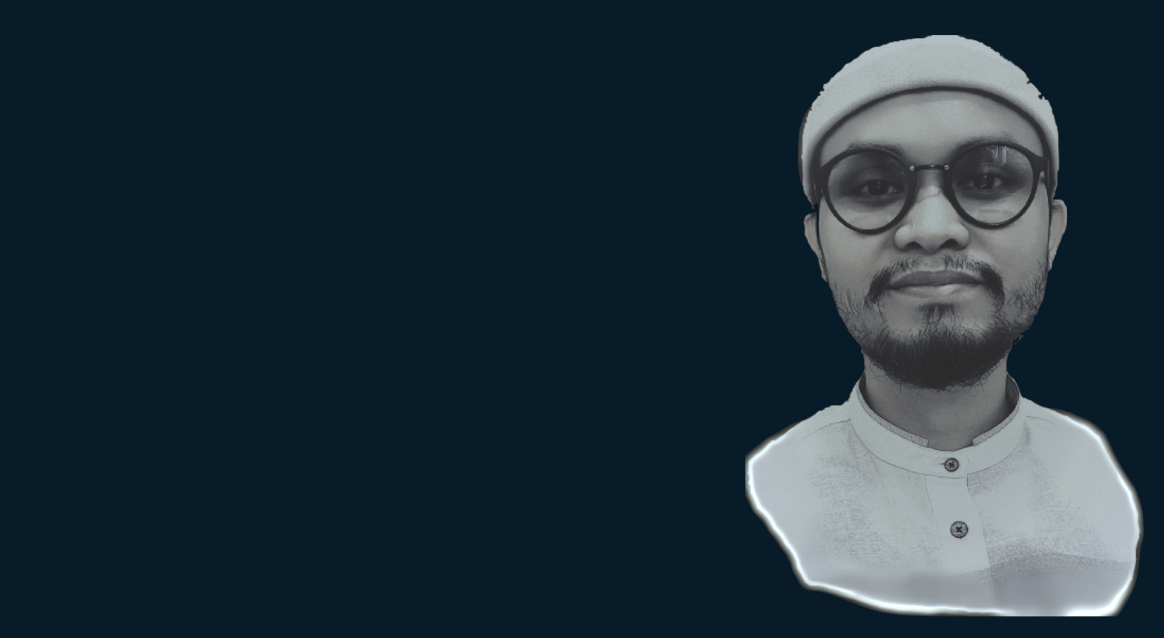
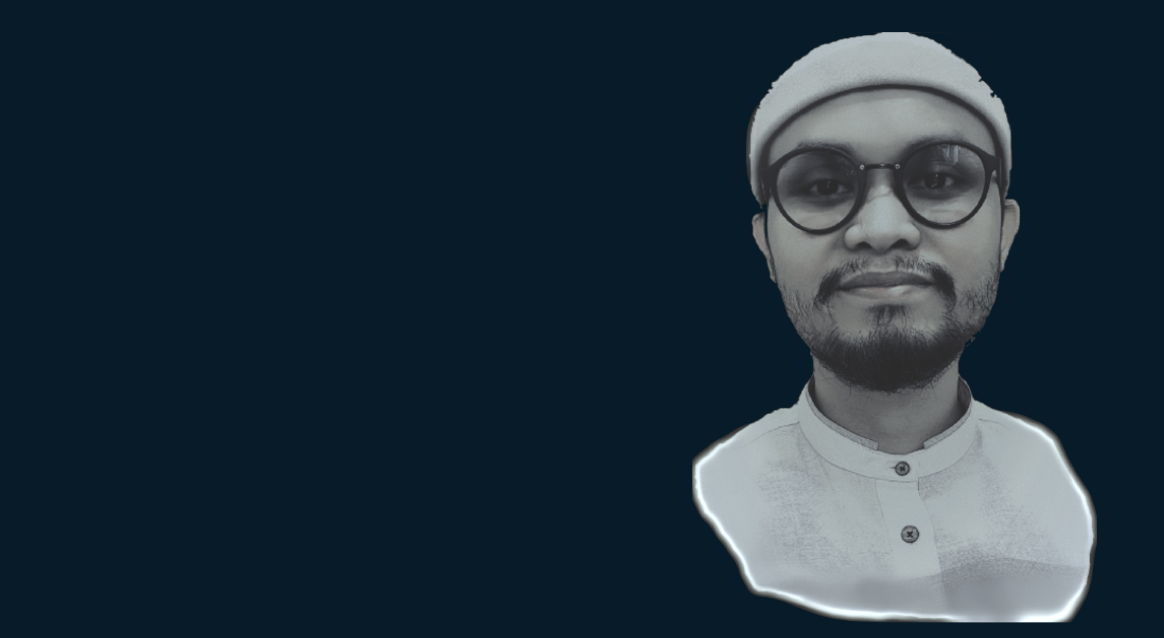
1

Changed region(s): [[0.5876, 0.0298, 0.9897, 0.9828]]

diff --git a/portfolio/style.css b/portfolio/style.css
@@ -69,7 +69,7 @@ body {
 }
 
 .home-content {
-  max-width: 595px;
+  max-width: 600px;
 }
 
 .home-content h1 {
@@ -94,7 +94,7 @@ body {
 .home-content h3 {
   position: relative;
   font-size: 28px;
-  font-weight: 700;
+  font-weight: 600;
   color: #00abf0;
 }
 
@@ -113,7 +113,7 @@ body {
 .home-content p {
   position: relative;
   text-align: justify;
-  width: 85%;
+  width: 75%;
   font-size: 14px;
   margin: 20px 0 40px;
 }
@@ -266,8 +266,8 @@ body {
 .home-imgHover {
   position: absolute;
   top: 0;
-  right: 3px;
-  width: 468px;
+  right: 30px;
+  width: 500px;
   height: 100%;
   background: transparent;
   transition: 3s;

diff --git a/portfolio/index.html b/portfolio/index.html
@@ -35,8 +35,8 @@
           Gerry Asrillin Sandy
         </h1>
         <h3>
-          PROFESSIONAL INFORMATION & COMMUNICATION TECHNOLOGY ( ICT)
-          PRACTITIONER
+          PROFESSIONAL INFORMATION & COMMUNICATION TECHNOLOGY <br />
+          (ICT) PRACTITIONER
         </h3>
         <p>
           An IT performer and Data Enthusiast (Engineer, Scientist, and Analyst)
